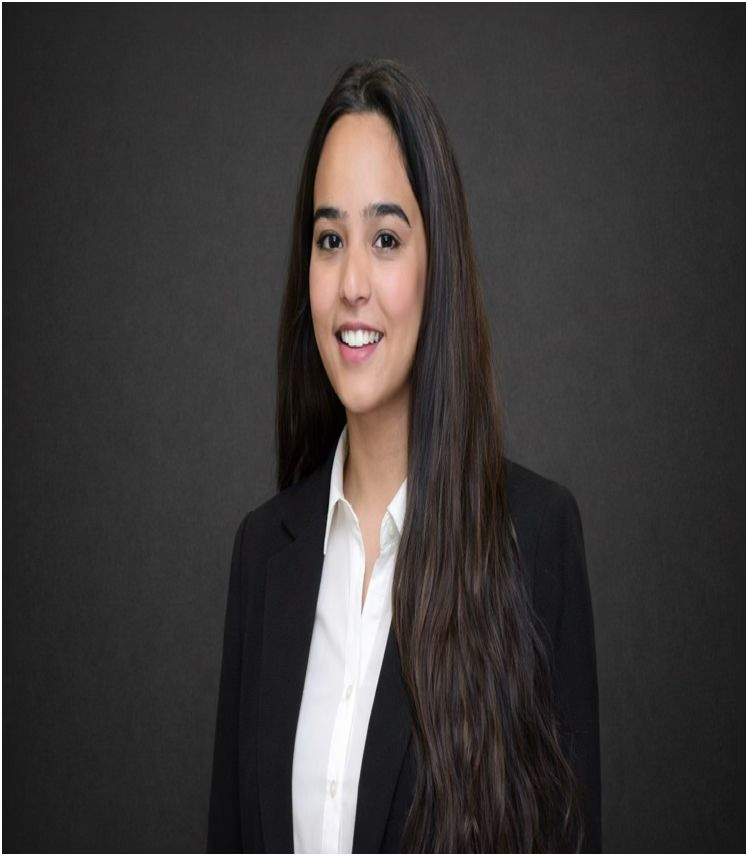
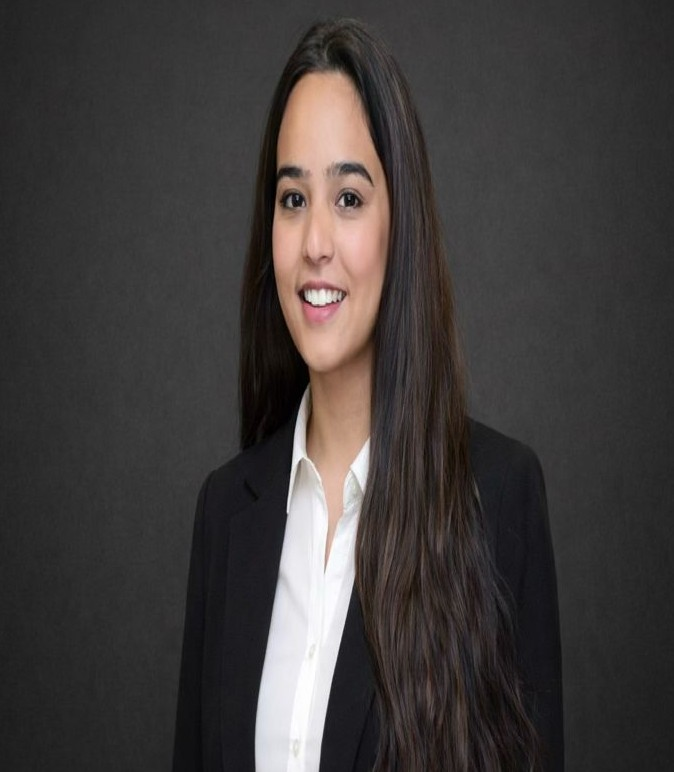
feat: Improve Founders section and  protected admin dashboard for demo requests

diff --git a/src/components/maisone/Founders.tsx b/src/components/maisone/Founders.tsx
@@ -7,25 +7,27 @@ const founders = [
     name: "Shashank Jain",
     role: "Co-Founder · Operations & Strategy",
     bio: "18+ years experience in luxury fashion sourcing, handcrafted textiles, production planning, sustainability, and ethical manufacturing.",
-    brands: ["Valentino", "Balmain", "Stella McCartney", "Giorgio Armani", "Dolce & Gabbana"],
+    footerLabel: "Worked With",
+    tags: ["Valentino", "Balmain", "Stella McCartney", "Giorgio Armani", "Dolce & Gabbana"],
     initials: "SJ",
-    hue: "from-stone-700/40 to-stone-900/60",
+    hue: "from-stone-800/50 to-stone-900/80",
     image: shashankImg,
   },
   {
     name: "Subah",
     role: "Co-Founder · Creative & Client Partnerships",
     bio: "Specializes in design coordination, luxury product development, client engagement, and creative collaboration between brands and manufacturers.",
-    brands: [],
+    footerLabel: "Expertise",
+    tags: ["Design Coordination", "Luxury Product Dev", "Client Engagement", "Creative Sync"],
     initials: "S",
-    hue: "from-zinc-700/40 to-zinc-900/60",
+    hue: "from-zinc-800/50 to-zinc-900/80",
     image: subahImg,
   },
 ];
 
 export function Founders() {
   return (
-    <section id="founders" className="relative py-32">
+    <section id="founders" className="relative pt-32 pb-16">
       <div className="mx-auto max-w-7xl px-6">
         <div className="max-w-3xl mb-16">
           <p className="text-[10px] uppercase tracking-[0.3em] text-electric mb-6">— Founders</p>
@@ -34,39 +36,51 @@ export function Founders() {
           </h2>
         </div>
 
-        <div className="grid sm:grid-cols-2 gap-7 max-w-4xl mx-auto">
+        <div className="grid md:grid-cols-2 gap-8 max-w-4xl mx-auto items-stretch">
           {founders.map((f, i) => (
             <motion.div
               key={f.name}
               initial={{ opacity: 0, y: 24 }}
               whileInView={{ opacity: 1, y: 0 }}
               viewport={{ once: true }}
-              transition={{ delay: i * 0.1 }}
-              className="glass-strong rounded-2xl overflow-hidden"
+              transition={{ delay: i * 0.1, duration: 0.6 }}
+              className="group flex flex-col justify-between h-full glass-strong rounded-3xl overflow-hidden border border-white/5 hover:border-electric/30 transition-all duration-500 hover:shadow-[0_20px_50px_rgba(0,0,0,0.3)]"
             >
-              <div className={`relative aspect-[4/5] bg-gradient-to-br ${f.hue} overflow-hidden`}>
-                <img
-                  src={f.image}
-                  alt={`${f.name} — ${f.role}`}
-                  className="absolute inset-0 w-full h-full object-cover object-top grayscale contrast-105 brightness-90"
-                  loading="lazy"
-                />
-                <div className="absolute inset-0 bg-gradient-to-t from-background via-background/40 to-background/10" />
-              </div>
-              <div className="p-6">
-                <h3 className="font-serif text-2xl">{f.name}</h3>
-                <p className="text-xs uppercase tracking-[0.25em] text-electric mt-1">{f.role}</p>
-                <p className="mt-5 text-sm text-muted-foreground leading-relaxed">{f.bio}</p>
-                {f.brands.length > 0 && (
-                  <div className="mt-6 pt-6 border-t border-border">
-                    <p className="text-[10px] uppercase tracking-[0.25em] text-muted-foreground mb-3">Worked with</p>
-                    <div className="flex flex-wrap gap-2">
-                      {f.brands.map((b) => (
-                        <span key={b} className="text-xs px-3 py-1.5 rounded-full glass">{b}</span>
-                      ))}
-                    </div>
+              <div>
+                <div className={`relative h-64 sm:h-72 w-full bg-gradient-to-br ${f.hue} overflow-hidden`}>
+                  <img
+                    src={f.image}
+                    alt={`${f.name} — ${f.role}`}
+                    className="absolute inset-0 w-full h-full object-cover object-[center_18%] transition-all duration-700 ease-out group-hover:scale-105"
+                    loading="lazy"
+                  />
+                </div>
+                
+                <div className="p-8 pb-4">
+                  <div className="flex flex-wrap gap-2 mb-4">
+                    <span className="text-[10px] font-medium uppercase tracking-[0.2em] px-3 py-1 rounded-full bg-electric/10 text-electric border border-electric/20">
+                      {f.role}
+                    </span>
                   </div>
-                )}
+                  <h3 className="font-serif text-3xl text-foreground/90">{f.name}</h3>
+                  <p className="mt-4 text-sm text-muted-foreground leading-relaxed">{f.bio}</p>
+                </div>
+              </div>
+
+              <div className="p-8 pt-4">
+                <div className="pt-6 border-t border-white/5">
+                  <p className="text-[10px] uppercase tracking-[0.25em] text-muted-foreground/60 mb-3">{f.footerLabel}</p>
+                  <div className="flex flex-wrap gap-2">
+                    {f.tags.map((t) => (
+                      <span 
+                        key={t} 
+                        className="text-xs px-3 py-1.5 rounded-full border border-white/5 bg-white/[0.02] text-muted-foreground hover:bg-white/[0.05] hover:border-white/10 hover:text-foreground transition-all duration-300"
+                      >
+                        {t}
+                      </span>
+                    ))}
+                  </div>
+                </div>
               </div>
             </motion.div>
           ))}

diff --git a/src/routes/admin.tsx b/src/routes/admin.tsx
@@ -141,6 +141,14 @@ function AdminPage() {
   const [search, setSearch] = useState("");
   const [statusFilter, setStatusFilter] = useState("All");
   
+  // Stats summary State
+  const [stats, setStats] = useState({
+    total: 0,
+    pending: 0,
+    contacted: 0,
+    completed: 0
+  });
+  
   // Pagination States
   const [page, setPage] = useState(1);
   const [totalCount, setTotalCount] = useState(0);
@@ -163,6 +171,29 @@ function AdminPage() {
 
     return () => subscription.unsubscribe();
   }, []);
+
+  // Fetch Stats (real-time overview counts)
+  const fetchStats = async () => {
+    if (!session) return;
+    try {
+      const { data, error } = await supabase
+        .from("demo_requests")
+        .select("status");
+      if (error) throw error;
+      if (data) {
+        const counts = data.reduce((acc: any, curr: any) => {
+          acc.total++;
+          if (curr.status === "Pending") acc.pending++;
+          if (curr.status === "Contacted") acc.contacted++;
+          if (curr.status === "Completed") acc.completed++;
+          return acc;
+        }, { total: 0, pending: 0, contacted: 0, completed: 0 });
+        setStats(counts);
+      }
+    } catch (err) {
+      console.error("Failed to fetch stats:", err);
+    }
+  };
 
   // Fetch Requests (handles server-side filtering, searching, and pagination)
   const fetchRequests = async () => {
@@ -211,6 +242,7 @@ function AdminPage() {
   useEffect(() => {
     if (session) {
       fetchRequests();
+      fetchStats();
     }
   }, [session, page]);
 
@@ -263,6 +295,7 @@ function AdminPage() {
       if (selectedRequest?.id === id) {
         setSelectedRequest(prev => prev ? { ...prev, status } : null);
       }
+      fetchStats();
     } catch (err: any) {
       console.error("Failed to update status:", err);
       alert("Error updating status: " + err.message);
@@ -285,6 +318,7 @@ function AdminPage() {
       setSelectedRequest(null);
       // Re-fetch to keep correct count and pagination values
       fetchRequests();
+      fetchStats();
     } catch (err: any) {
       console.error("Failed to delete request:", err);
       alert("Error deleting request: " + err.message);
@@ -407,6 +441,34 @@ function AdminPage() {
                   >
                     <RefreshCw className={`size-4 ${reqLoading ? "animate-spin" : ""}`} />
                   </button>
+                </div>
+              </div>
+
+              {/* Analytics Summary KPI Cards */}
+              <div className="grid grid-cols-1 md:grid-cols-3 gap-4">
+                <div className="glass-strong rounded-2xl p-5 border border-white/5 bg-white/[0.01]">
+                  <div className="flex items-center justify-between text-muted-foreground mb-2">
+                    <span className="text-[10px] uppercase tracking-widest text-muted-foreground/60">Total Leads</span>
+                    <Layers className="size-4 text-electric" />
+                  </div>
+                  <div className="text-3xl font-serif">{stats.total}</div>
+                  <p className="text-[10px] text-muted-foreground/60 mt-1">All-time submissions</p>
+                </div>
+                <div className="glass-strong rounded-2xl p-5 border border-white/5 bg-white/[0.01]">
+                  <div className="flex items-center justify-between text-muted-foreground mb-2">
+                    <span className="text-[10px] uppercase tracking-widest text-muted-foreground/60">Pending Review</span>
+                    <ShieldAlert className="size-4 text-amber-400" />
+                  </div>
+                  <div className="text-3xl font-serif text-amber-400">{stats.pending}</div>
+                  <p className="text-[10px] text-muted-foreground/60 mt-1">Requires qualification</p>
+                </div>
+                <div className="glass-strong rounded-2xl p-5 border border-white/5 bg-white/[0.01]">
+                  <div className="flex items-center justify-between text-muted-foreground mb-2">
+                    <span className="text-[10px] uppercase tracking-widest text-muted-foreground/60">Qualified Leads</span>
+                    <Check className="size-4 text-emerald-400" />
+                  </div>
+                  <div className="text-3xl font-serif text-emerald-400">{stats.completed + stats.contacted}</div>
+                  <p className="text-[10px] text-muted-foreground/60 mt-1">Contacted or Completed</p>
                 </div>
               </div>
 
@@ -548,7 +610,7 @@ function AdminPage() {
 
                             {/* Sourcing Profile */}
                             <td className="px-6 py-5 min-w-[280px]">
-                              <div className="flex items-center gap-1.5 flex-nowrap whitespace-nowrap">
+                              <div className="flex flex-wrap gap-1.5 max-w-xs">
                                 <span className="text-[10px] px-2 py-0.5 rounded-full bg-white/5 text-foreground/90 border border-white/5">{req.category}</span>
                                 <span className="text-[10px] px-2 py-0.5 rounded-full bg-white/5 text-foreground/90 border border-white/5">{req.monthly_volume}</span>
                                 <span className="text-[10px] px-2 py-0.5 rounded-full bg-white/5 text-foreground/90 border border-white/5">{req.timeline}</span>

diff --git a/src/components/maisone/ExtraMile.tsx b/src/components/maisone/ExtraMile.tsx
@@ -21,7 +21,7 @@ const cards = [
 
 export function ExtraMile() {
   return (
-    <section id="extra-mile" className="relative py-32">
+    <section id="extra-mile" className="relative pt-16 pb-32">
       <div className="mx-auto max-w-7xl px-6">
         <div className="max-w-3xl mb-16">
           <p className="text-[10px] uppercase tracking-[0.3em] text-electric mb-6">— The Extra Mile</p>